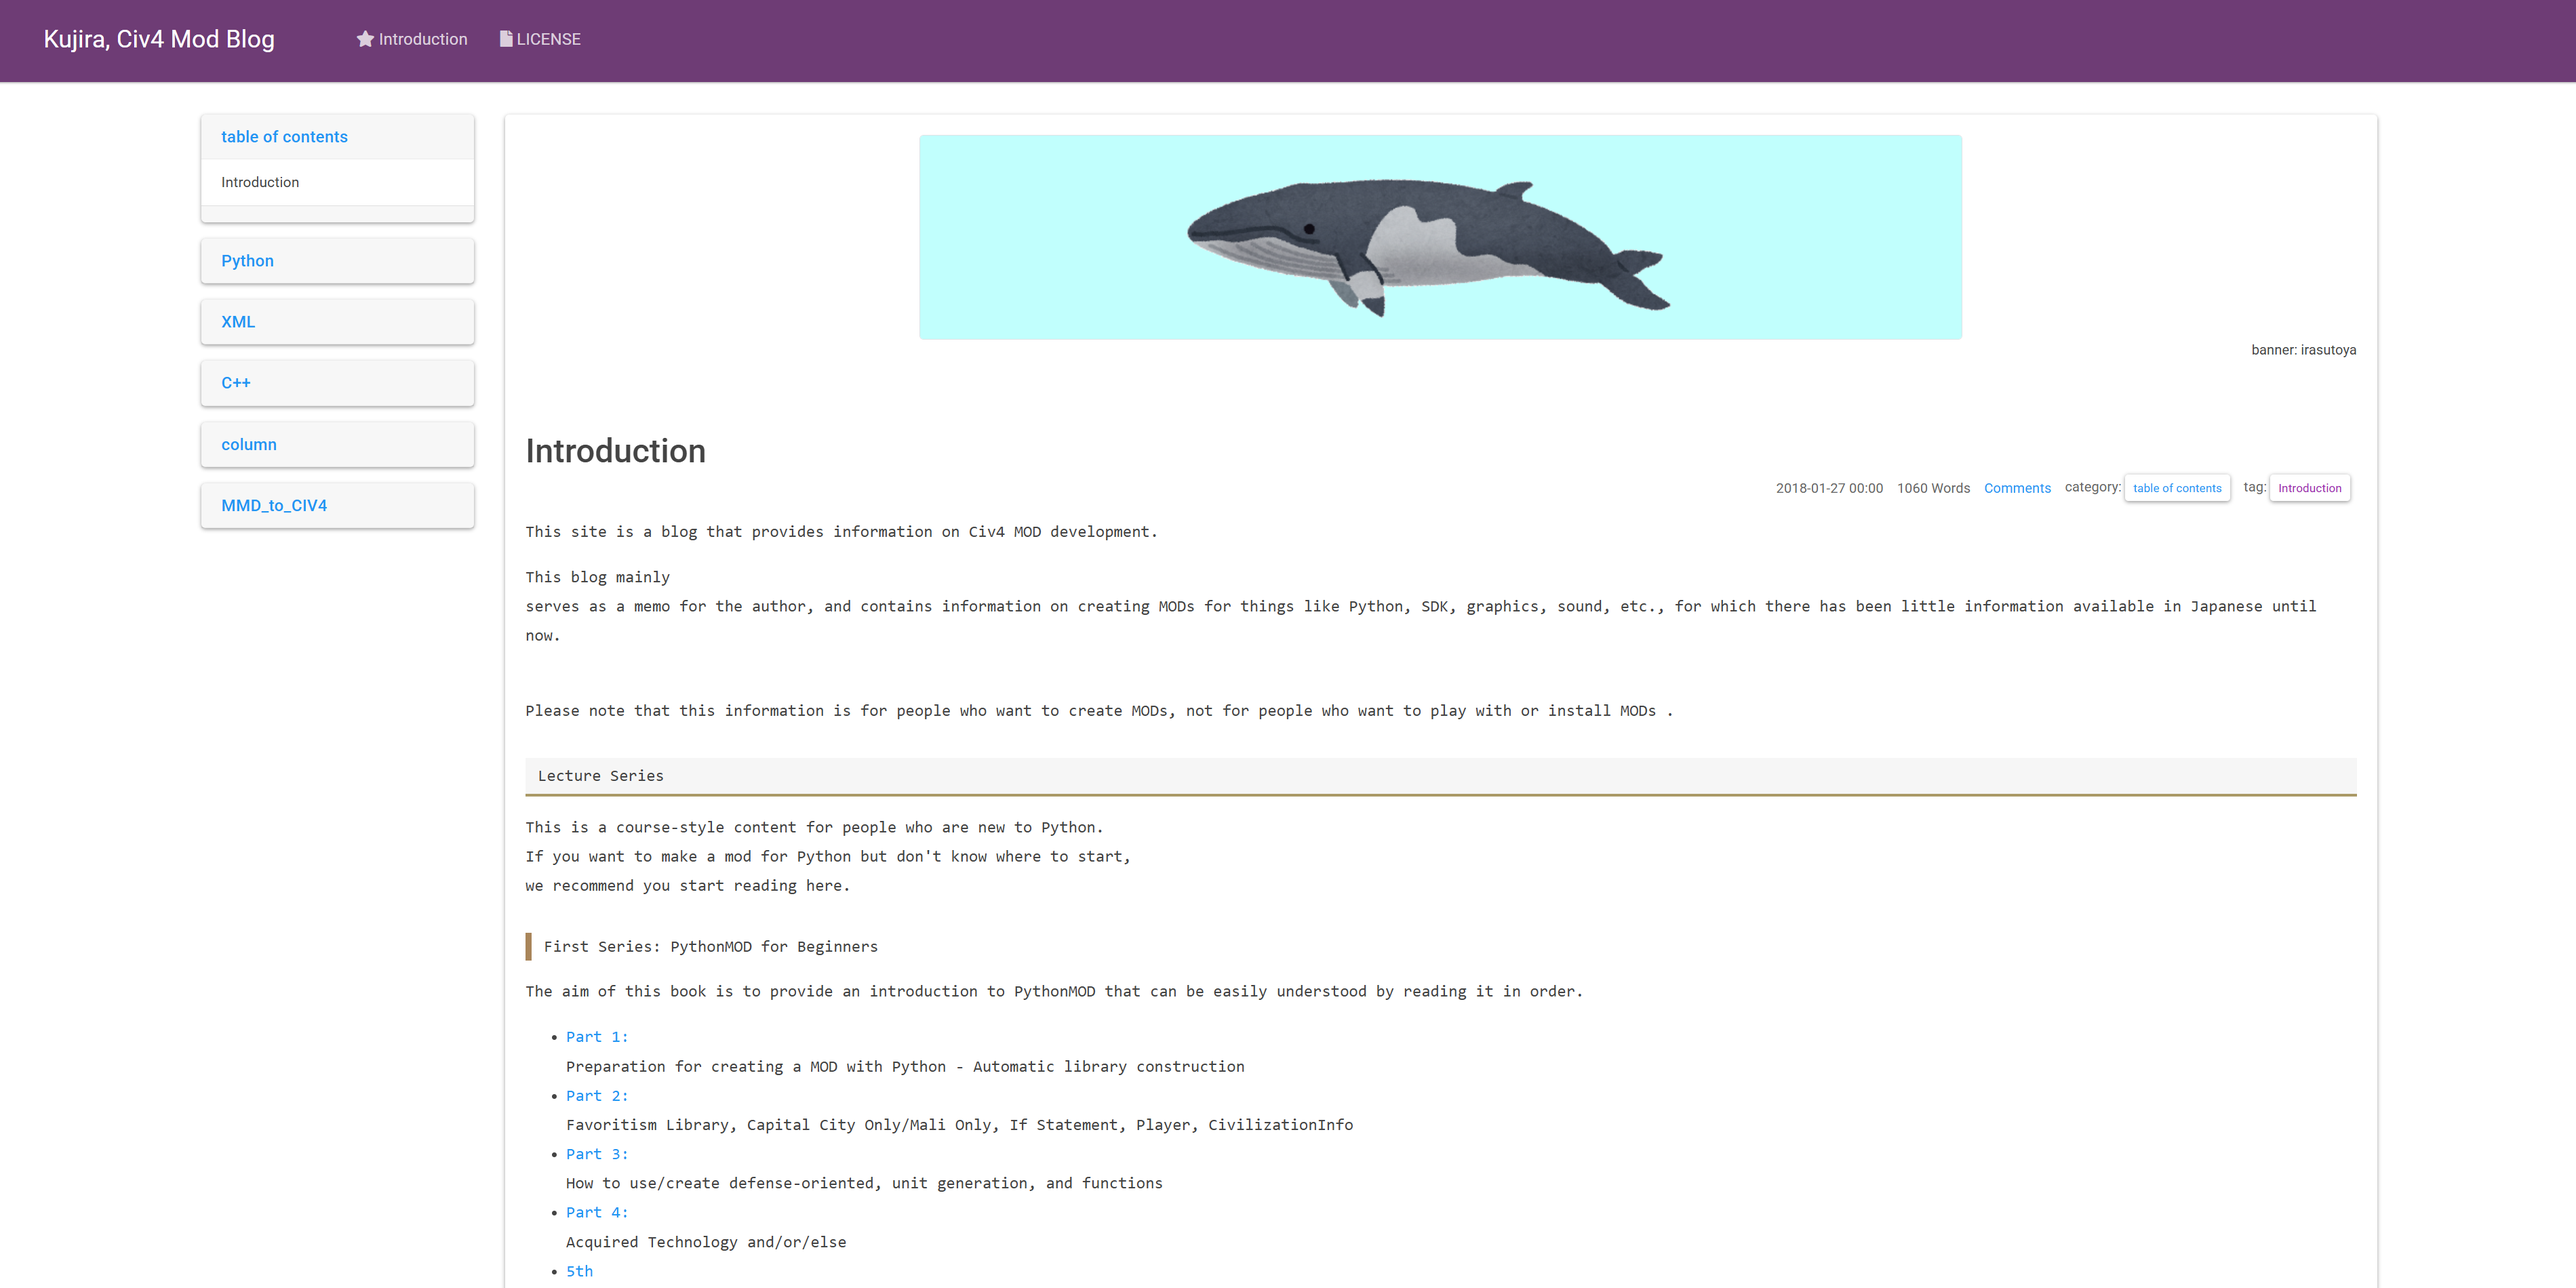
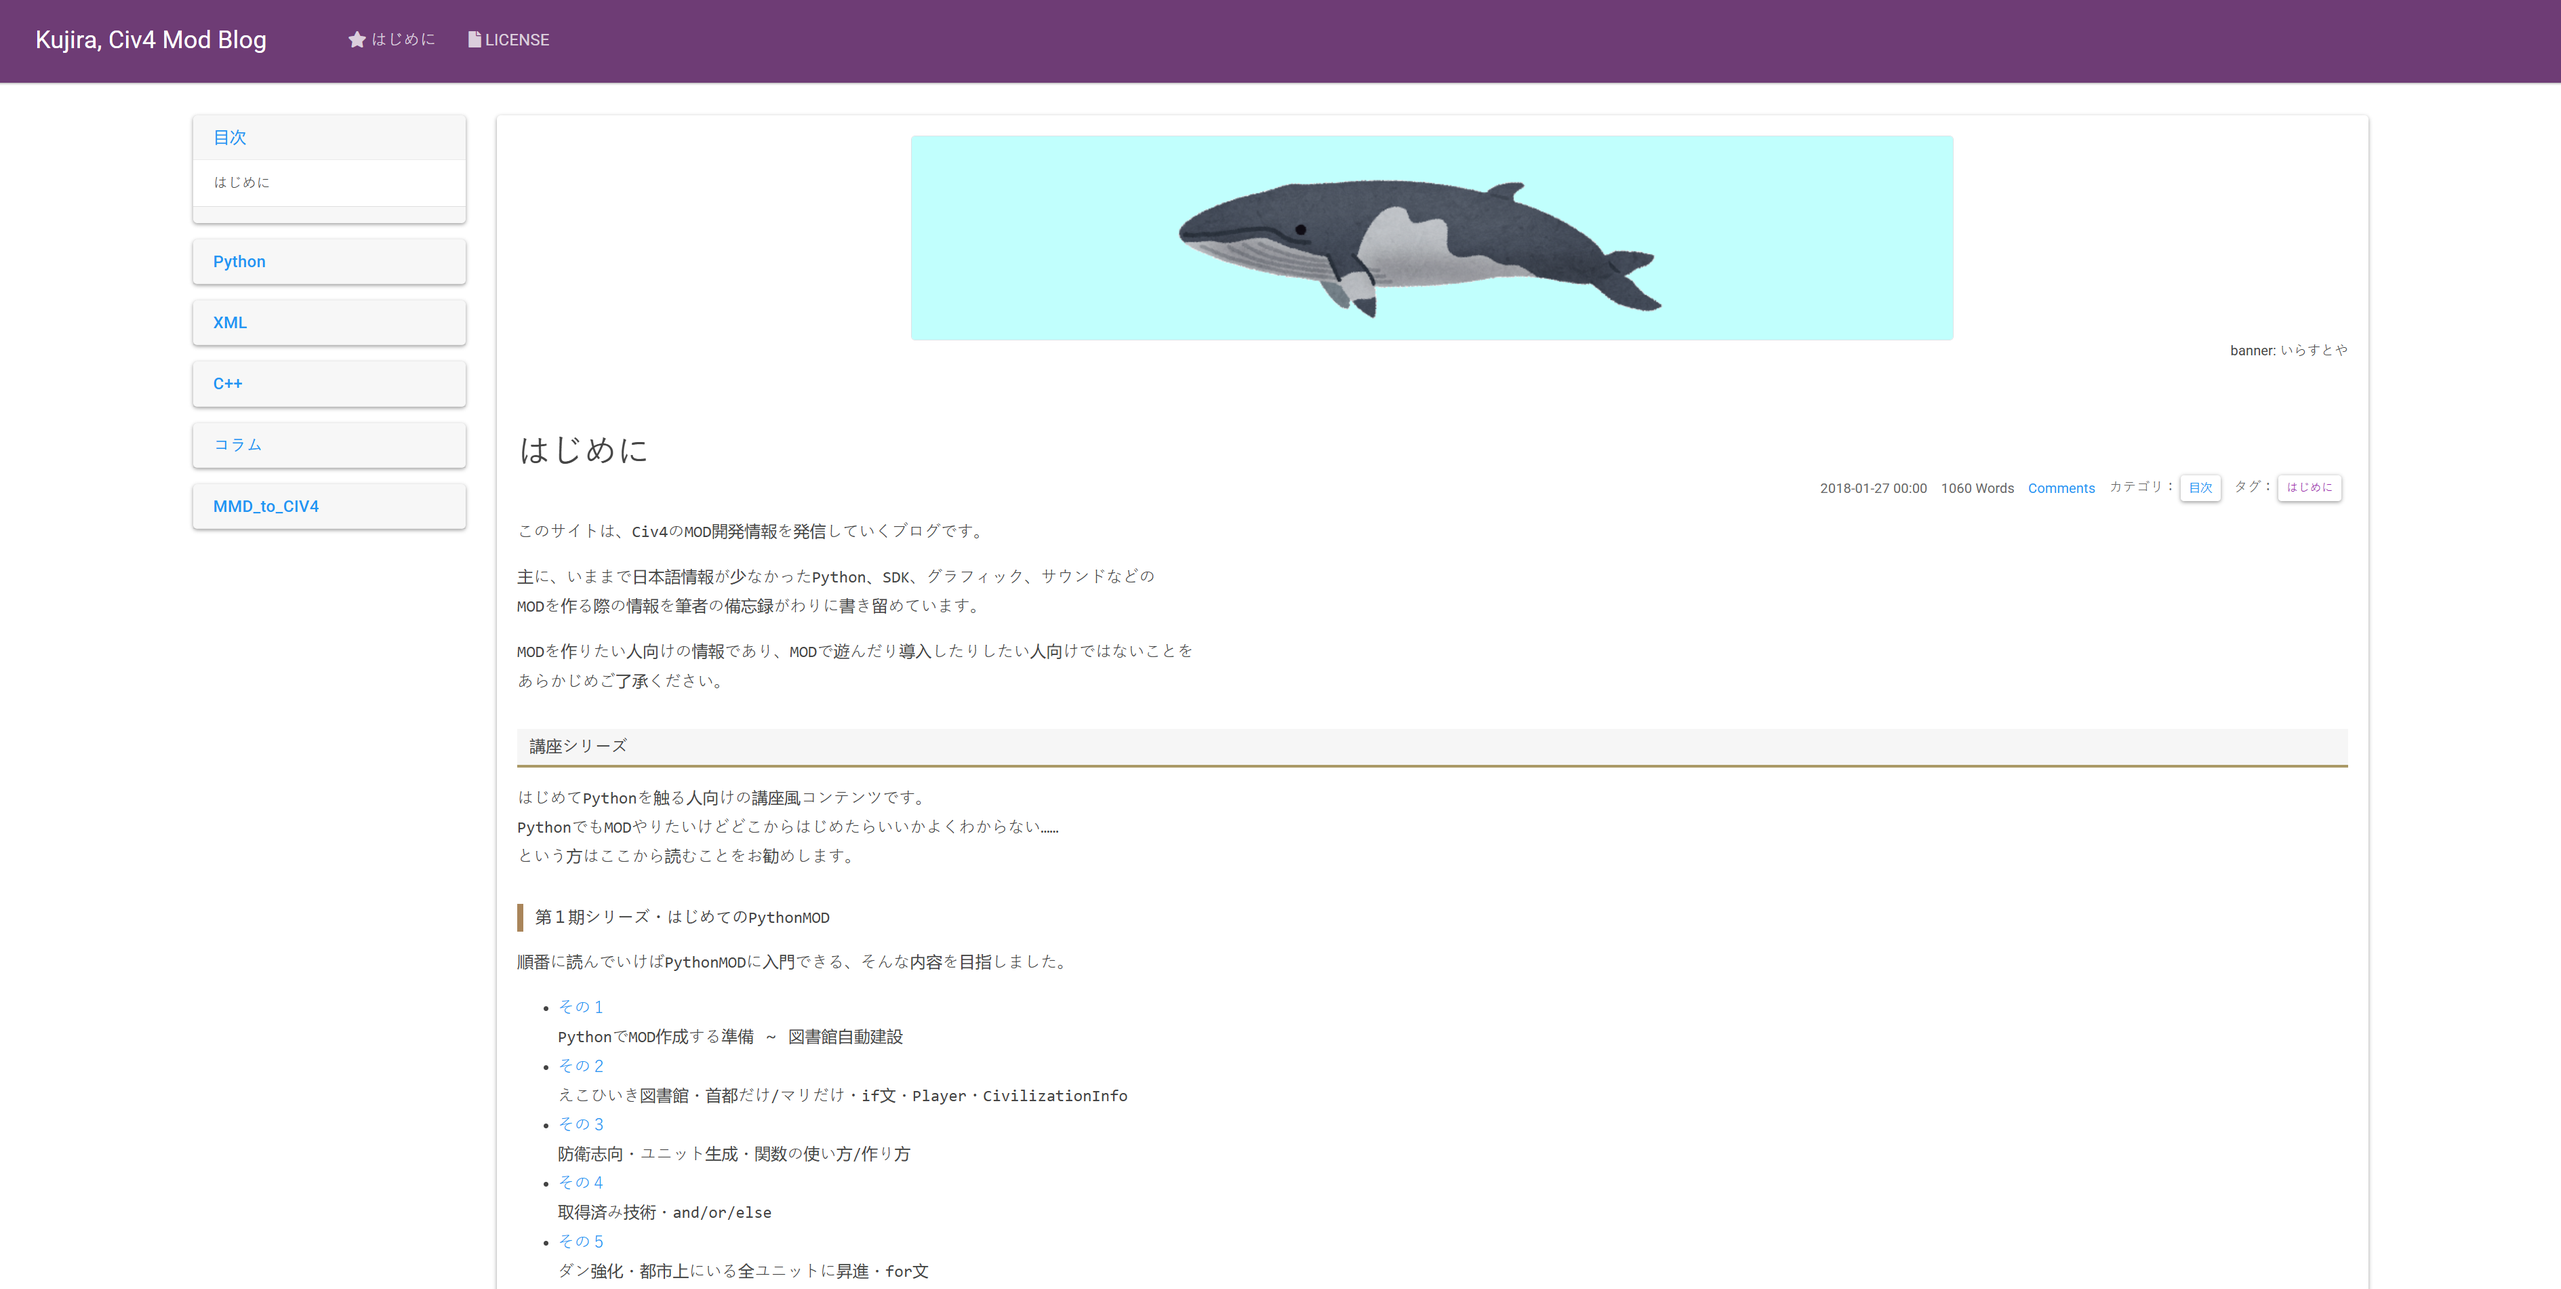
fix broken links and filename mistakes

diff --git a/README.md b/README.md
@@ -23,7 +23,7 @@ For example, view of the XML Civ4 Promotions page.
 
 This is how you can translate the page from japanese to english, on Google Chrome for example:
 
-![img2](images/website_home_page_english_how_to_translate.png)
+![img2](images/civ4promotioninfos_how_to_translate_from_japanese_to_english.png)
 
 ### In Japanese
 
@@ -39,7 +39,7 @@ For example, view of the home page of the website.
 
 ### In Japanese 
 
-![img5](images/civ4promotioninfos_japanese_original.PNG)
+![img5](images/website_home_page_japanese_original.PNG)
 
 # 転載について
 本文の内容は特記がない限りCC BY 4.0 国際 ライセンス に従って利用ができます。
